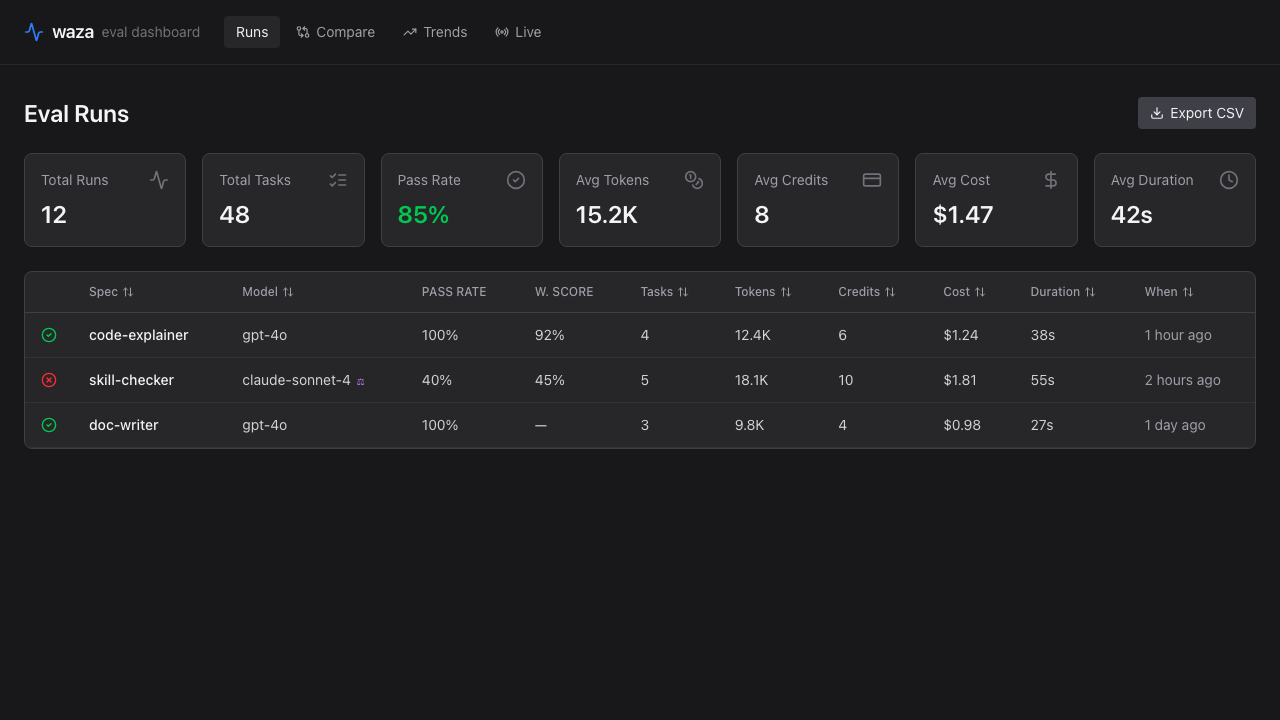
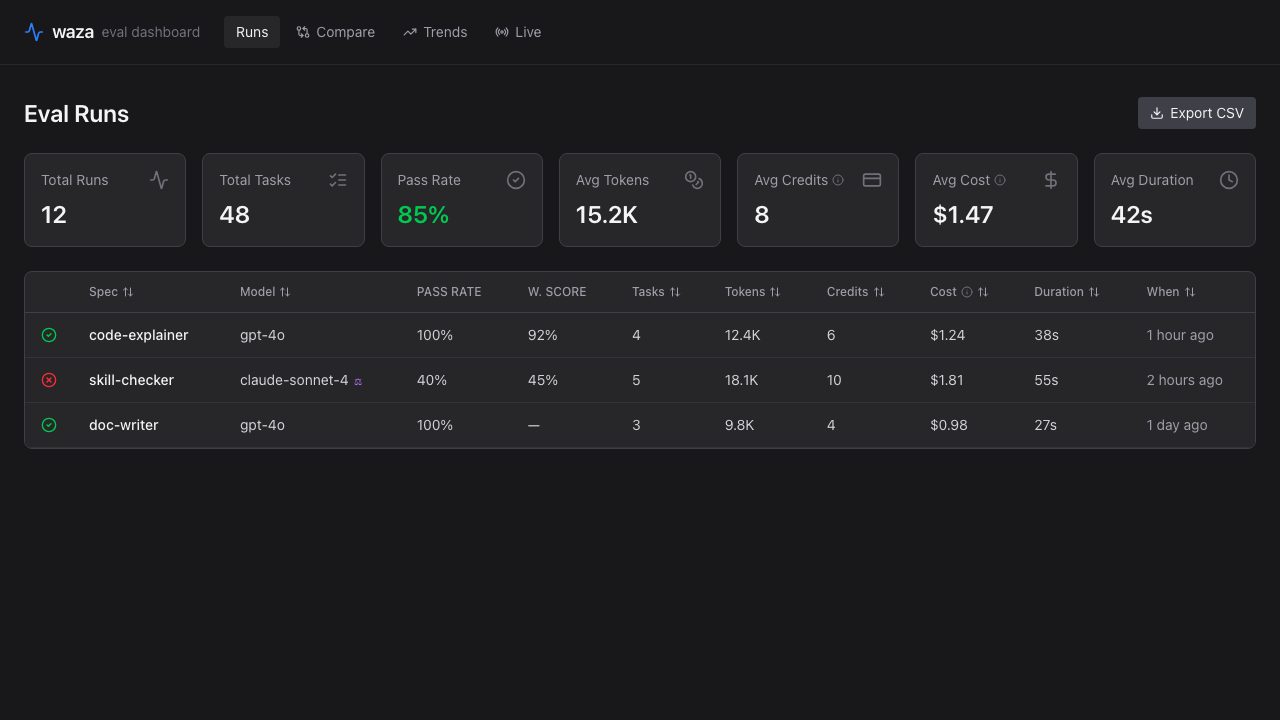
fix: address review feedback on streamingPtr + Credits tooltip a11y
- streamingPtr now always returns a non-nil *bool so SDK behavior is stable
  regardless of any future change to the SDK Streaming default
- Credits stats switch from native title attribute on <div> to keyboard-reachable
  InfoTooltip (matches Cost stat pattern in KPICards/RunDetail/CompareView)
- Drop redundant 'title?' prop from Card/StatCard/MetricCard
- Update sessionConfigMatcher to treat *bool(false) as equivalent to nil for
  Streaming when expected fixture omits it

diff --git a/web/src/components/CompareView.tsx b/web/src/components/CompareView.tsx
@@ -2,6 +2,7 @@ import { useState } from "react";
 import { useRuns, useRunDetail } from "../hooks/useApi";
 import type { RunDetail, TaskResult } from "../api/client";
 import TaskTrajectoryCompare from "./TaskTrajectoryCompare";
+import { InfoTooltip } from "./InfoTooltip";
 import {
   formatDuration,
   formatCost,
@@ -352,7 +353,7 @@ export default function CompareView() {
               />
               <MetricCard
                 label="Credits"
-                title={CREDITS_TOOLTIP}
+                labelExtra={<InfoTooltip text={CREDITS_TOOLTIP} />}
                 valueA={formatCredits(runA.premiumRequests ?? 0)}
                 valueB={formatCredits(runB.premiumRequests ?? 0)}
                 delta={
@@ -457,20 +458,19 @@ function MetricCard({
   valueA,
   valueB,
   delta,
-  title,
+  labelExtra,
 }: {
   label: string;
   valueA: string;
   valueB: string;
   delta: React.ReactNode;
-  title?: string;
+  labelExtra?: React.ReactNode;
 }) {
   return (
-    <div className="space-y-2" title={title}>
-      <p
-        className={`text-xs font-medium uppercase text-zinc-400${title ? " cursor-help" : ""}`}
-      >
+    <div className="space-y-2">
+      <p className="inline-flex items-center gap-1 text-xs font-medium uppercase text-zinc-400">
         {label}
+        {labelExtra}
       </p>
       <div className="flex items-baseline gap-3">
         <span className="text-lg font-semibold text-zinc-100">{valueA}</span>

diff --git a/web/src/components/KPICards.tsx b/web/src/components/KPICards.tsx
@@ -31,22 +31,14 @@ interface CardProps {
   value: string;
   icon: React.ReactNode;
   valueClass?: string;
-  title?: string;
   labelExtra?: React.ReactNode;
 }
 
-function Card({ label, value, icon, valueClass, title, labelExtra }: CardProps) {
+function Card({ label, value, icon, valueClass, labelExtra }: CardProps) {
   return (
-    <div
-      className="rounded-lg border border-zinc-700 bg-zinc-800 p-4"
-      title={title}
-    >
+    <div className="rounded-lg border border-zinc-700 bg-zinc-800 p-4">
       <div className="flex items-center justify-between">
-        <span
-          className={`inline-flex items-center gap-1 text-sm text-zinc-400${
-            title ? " cursor-help" : ""
-          }`}
-        >
+        <span className="inline-flex items-center gap-1 text-sm text-zinc-400">
           {label}
           {labelExtra}
         </span>
@@ -110,7 +102,7 @@ export default function KPICards({ data }: { data: SummaryResponse }) {
         label="Avg Credits"
         value={formatCredits(data.avgPremiumRequests ?? 0)}
         icon={<CreditCard className={iconSize} />}
-        title={CREDITS_TOOLTIP}
+        labelExtra={<InfoTooltip text={CREDITS_TOOLTIP} />}
       />
       <Card
         label="Avg Cost"

diff --git a/web/src/components/RunDetail.tsx b/web/src/components/RunDetail.tsx
@@ -269,7 +269,7 @@ export default function RunDetail({ id }: { id: string }) {
         <StatCard
           label="Credits"
           value={formatCredits(data.premiumRequests ?? 0)}
-          title={CREDITS_TOOLTIP}
+          labelExtra={<InfoTooltip text={CREDITS_TOOLTIP} />}
         />
         <StatCard
           label="Cost"
@@ -376,24 +376,15 @@ export default function RunDetail({ id }: { id: string }) {
 function StatCard({
   label,
   value,
-  title,
   labelExtra,
 }: {
   label: string;
   value: string;
-  title?: string;
   labelExtra?: React.ReactNode;
 }) {
   return (
-    <div
-      className="rounded-lg border border-zinc-700 bg-zinc-800 p-3"
-      title={title}
-    >
-      <p
-        className={`inline-flex items-center gap-1 text-xs text-zinc-400${
-          title ? " cursor-help" : ""
-        }`}
-      >
+    <div className="rounded-lg border border-zinc-700 bg-zinc-800 p-3">
+      <p className="inline-flex items-center gap-1 text-xs text-zinc-400">
         {label}
         {labelExtra}
       </p>

diff --git a/web/dist/index.html b/web/dist/index.html
@@ -4,7 +4,7 @@
     <meta charset="UTF-8" />
     <meta name="viewport" content="width=device-width, initial-scale=1.0" />
     <title>waza — eval dashboard</title>
-    <script type="module" crossorigin src="/assets/index-D_MIKBwj.js"></script>
+    <script type="module" crossorigin src="/assets/index-D-T96LKp.js"></script>
     <link rel="stylesheet" crossorigin href="/assets/index-BsCU6BhC.css">
   </head>
   <body class="bg-zinc-900 text-zinc-100 antialiased">

diff --git a/internal/execution/copilot.go b/internal/execution/copilot.go
@@ -727,15 +727,13 @@ func allowAllTools(request copilot.PermissionRequest, invocation copilot.Permiss
 	return &rpc.PermissionDecisionApproveOnce{}, nil
 }
 
-// streamingPtr preserves the pre-v1.0.0 SDK semantics: only set Streaming
-// when the caller explicitly requested it. A nil pointer means "use the SDK
-// default"; copilot.Bool(false) would explicitly disable streaming and shows
-// up as a non-nil pointer in matchers.
+// streamingPtr converts the caller's bool Streaming field into the *bool the
+// SDK expects. We always pass an explicit value (never nil) so behavior is
+// stable regardless of any future change to the SDK's default. If we ever
+// need tri-state ("use SDK default") semantics, the caller field should
+// become a *bool itself.
 func streamingPtr(streaming bool) *bool {
-	if !streaming {
-		return nil
-	}
-	return copilot.Bool(true)
+	return copilot.Bool(streaming)
 }
 
 // skillDefinition holds the content extracted from a SKILL.md file.

diff --git a/internal/execution/copilot_test.go b/internal/execution/copilot_test.go
@@ -534,6 +534,12 @@ func (m sessionConfigMatcher) Matches(x any) bool {
 		expected.OnPermissionRequest = nil
 		c.OnPermissionRequest = nil
 
+		// streamingPtr always returns a non-nil *bool now; when an expected
+		// fixture omits Streaming, treat actual *bool(false) as equivalent.
+		if expected.Streaming == nil && c.Streaming != nil && !*c.Streaming {
+			c.Streaming = nil
+		}
+
 		require.Equal(m.t, expected, c)
 	case *copilot.ResumeSessionConfig:
 		c := *tempC
@@ -554,6 +560,10 @@ func (m sessionConfigMatcher) Matches(x any) bool {
 		// Equal can't compare function ptrs..
 		expected.OnPermissionRequest = nil
 		c.OnPermissionRequest = nil
+
+		if expected.Streaming == nil && c.Streaming != nil && !*c.Streaming {
+			c.Streaming = nil
+		}
 
 		require.Equal(m.t, expected, c)
 	default:
